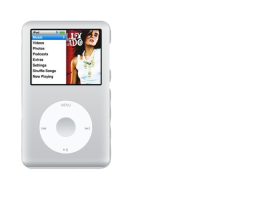
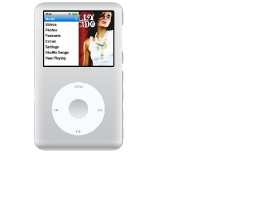
updated
added new section

Changed region(s): [[0.0599, 0.0, 0.4794, 0.87]]

diff --git a/ComputerEssentials/computersAndDevices/Hardware/hardware.html b/ComputerEssentials/computersAndDevices/Hardware/hardware.html
@@ -16,22 +16,24 @@ description: startup, shutdown, computer hahrdware devices, cpu, memory, storage
                             </h2>
                             <div class="task-item" id="ict-1-1">
                                 <div class="task-item-section">
-                                    <p class="inner-contents">
-                                        <span class="task-question">
-                                          <strong>ቀንዲ ዓይነት ኮምፕዩተራት፧</strong>
-                                        </span>
-                                    </p>
+                                    
                                     <p class="inner-contents">
                                         ሃርድወር(hardware) ማለት ኣካላዊ ኽፋላት ናይ ኮምፕዩተር ወይ ኤለክትሮኒካዊ መሳርሒ እዩ። ንኣብነት ከም እኒ 
                                         ማዉዝ（mouse）፣ ሞኒተር ከምኡውን ኪቦርድ ክግለጽ ይከኣል። እቶም ብኣእዳው  ክጭበጡ ወይ ክድህሰሱ ዝክእሉ መሳርሒ ኮምፒተር`ዮም። ክልተ ኻብቲ ኣዝዩ ህቡባት ዓይነት 
                                         ናይ ብሕቲ ኮምፕዩተር መሳርሒ ከም በዓል ዴስክቶፕን ላፕቶፕን ክግለጽ ይከኣል። ከም በዓል ታብሌት ብምትንካፍ ዝሰርሕ ውን ህቡብነት እንዳ ረኸበ
                                         እዩ ዝመጽእ ዘሎ። ኣብዚ ግዜ እዚ ሓደ ኻብቶም ኣብ ዓለም ካብ ዘሎዉ ናይ ኣይሲቲ(ICT) መሳርሒታት እቲ ኣዝዩ ህቡብ ዝዀነ ግን ሞባይል እዩ።
                                     </p>
+
+                                    <p class="inner-contents">
+                                        <span class="task-question">
+                                          <strong>ቀንዲ ዓይነት ኮምፕዩተራትን መሳርሒታትን፧</strong>
+                                        </span>
+                                    </p>
                                    
                                        <div class="content-image-section">
                                            <div class="content-only">
                                             <p class="inner-contents">
-                                                <span class ="task-question"> <strong>ዴስክቶፕ (Desktop)</strong></span> ዝበሃል ኣብ ሓደ ቦታ ንኽትጸንሕ ተባሂሉ ዝተሰርሀ ዓይነት ኮምፕዩተር እዩ። ዘይ ከም ላፕቶፕን ካልእ ዓይነት ተንቀሳቖሲ መሳርሒ፣ 
+                                                <span class ="task-question"> <strong>ዴስክቶፕ(Desktop)</strong></span> ዝበሃል ኣብ ሓደ ቦታ ንኽትጸንሕ ተባሂሉ ዝተሰርሀ ዓይነት ኮምፕዩተር እዩ። ዘይ ከም ላፕቶፕን ካልእ ዓይነት ተንቀሳቖሲ መሳርሒ፣ 
                                                 ካብ ውሽጣዊ ባትሪ ኣይጥቀሙን እዮም። ስለዚ ምስ መመንጨዊ ኤለክትሪክ እተተሓሓዘ ክኸውን ኣለዎ። ኣብ መጀመርታ ዘመን ናይ ኮምፕዩተራት፣ ናይ ብሕቲ ዴስክቶፕ(Desktop) ኮምፕዩተራት ጥራይ እየን ነይረን። 
                                                 ላፕቶፕታትን ታብለታትን ኣብ ዘይ ነበረሉ ግዜ፣ ኩሉ ኣብ ቤት ዴስክቶፕ（Desktop） ኮምፕዩተራት ጥራይ ኢዩ ዝጥቀም ነይሩ።
                                                 
@@ -46,7 +48,7 @@ description: startup, shutdown, computer hahrdware devices, cpu, memory, storage
                                         <div class="content-image-section">
                                             <div class="content-only">
                                              <p class="inner-contents">
-                                                <span class ="task-question"> <strong>ላፕቶፕ (Laptop)</strong></span> ኮምፕዩተራት ከምቲ እቲ ስም ዚእምቶ ንኣሽቱን ተንቀሳቓሲትን ዓይነት ኮምፕዩተራት እዮም። 
+                                                <span class ="task-question"> <strong>ላፕቶፕ(Laptop)</strong></span> ኮምፕዩተራት ከምቲ እቲ ስም ዚእምቶ ንኣሽቱን ተንቀሳቓሲትን ዓይነት ኮምፕዩተራት እዮም። 
                                                 ብውሽጣዊ ባትሪ ዀነ ብኤለክትሪክ እዮም ዚጥቀሙ። መብዛሕትኡ ግዜ ንተንቀሳቓሲን ተዓጻጻፍን ስርሓት ንምጥቃም ተባሂሎም እዩም ዝንደፉ።
                                                 ከምቲ ባህላዊ ዓብዪ ስክሪን VDUs(Visual Display Units) ዘይኰነስ ፍሉይ ዓይነት ስክሪን እዩም ዝጥቀሙ። ምስ ተመሳሳሊ ደስክቶ(Desktop) ኣወዳዲርካ  
                                                 ገና ኽቡር እኳ እንተ ዀነ ዋግኡ፣ ምስቲ ሓይሊ ናይ ዴስክቶፕ(Desktop) ኺወዳደሩ ይኽእሉ እዮም።
@@ -61,7 +63,7 @@ description: startup, shutdown, computer hahrdware devices, cpu, memory, storage
                                         <div class="content-image-section">
                                             <div class="content-only">
                                              <p class="inner-contents">
-                                                <span class ="task-question"> <strong>ታብሌት (Tablet)</strong></span> ተንቀሳቓሲ ኮምፕዩተር ኮይና ነቲ ናይ ኮምፕዩተር ስክሪን ብኢድካ ብምድህሳስ ወይ ብምትንካፍ እያ ትሰርሕ።
+                                                <span class ="task-question"> <strong>ታብሌት(Tablet)</strong></span> ተንቀሳቓሲ ኮምፕዩተር ኮይና ነቲ ናይ ኮምፕዩተር ስክሪን ብኢድካ ብምድህሳስ ወይ ብምትንካፍ እያ ትሰርሕ።
                                                 መብዛሕትኡ ታብሌታት ንኣሽቱን ክብደትን ድማ ብገምጋም ካብ ላፕቶፕ ዝውሕድ ኢዩ።  እቶም ናይ ቀደም ዝነበሩ ታብለት ብብርሃን ብርዒ፣ ስክሪን ብምትንካፍ ኺዓዪ ተባሂሎም እዮም ተነዲፎም። 
                                                 ብዙሓት ታብሌታት ሕጂ ብብዙሕ መንገድታት ብምትንካፍ እዮም ዝሰርሑ ንኣብነት ንሓደ ስእሊ ክተዕብዮ ወይ ክተንእሶ እንተ ደሊኻ ብብዙሕ ኣጻብዕካ ምንቅስቓስ ብምግባር ይከኣል እዩ። 
                                                 ኪቦርድ ዘይ ብሎም ታብሌት ብ ኣብቲ ስክሪን ዝርአ ፖፕ-ኣፕ ኪቦርድ ጌርካ መልእኽቲ ኽትኣቱ ይፈቕዱልካ እዩ።
@@ -73,10 +75,10 @@ description: startup, shutdown, computer hahrdware devices, cpu, memory, storage
                                             </div>
                                         </div>
 
-                                        <div class="content-image-section">
-                                            <div class="content-only goals-section">
+                                        <div class="content-image-section-large-grid">
+                                            <div class="content-only goals-section large-grid">
                                              <p class="inner-contents">
-                                                <span class ="task-question"> <strong>ስማርትፎን (Smartphone)</strong></span> ዝብሃል ምዕቡል ዝኾነ ልክዕ ከም ናይ ኮምፕዩተር ዝህቦ ኣገልግሎት ዚህብ ሞባይል ተሌፎን እዩ።
+                                                <span class ="task-question"> <strong>ስማርትፎን(Smartphone)</strong></span> ዝብሃል ምዕቡል ዝኾነ ልክዕ ከም ናይ ኮምፕዩተር ዝህቦ ኣገልግሎት ዚህብ ሞባይል ተሌፎን እዩ።
                                                 ክእለትን መለክዒታትን ካብ ሓደ ኣፍራዪ ትካል ናብ ካልእ ኣፍራዪ ትካል ይፈላለ ኢዩ። መብዛሕትኦም ስማርትፎን ከምዚ ዝስዕብ ኣለዎም፣
                                                 <ul class="course-outcomes-inner-section">
                                                     <li>ምስ ካልእ መሳርሒታት ዜራኽብ ኣሰራርሓ（Operating system） ክምኡዉን ኣወዓዕላታት(ኣፕሊኬሽን) መውረዲ።</li>
@@ -89,6 +91,30 @@ description: startup, shutdown, computer hahrdware devices, cpu, memory, storage
                                             </div>
                                             <div class="image-only">
                                                 <img src="/assets/Images/Chapter 3/Hardware/smartPhone.png"/>
+                                            </div>
+                                        </div>
+                                        <div class="content-image-section-medium-grid">
+                                            <div class="content-only">
+                                            <p class="inner-contents">
+                                                <span class ="task-question"> <strong>ዲጂታል ካሜራ(Digital Camera)</strong></span>  ኤለክትሮኒካዊት ካሜራ ኾይና ብተመሳሳሊ መገዲ ከም ባህላዊ ካሜራ ኽንጥቀመላ ንኽእል እያ። ግናኸ ስእልታት ኣብ ጥቕላላት ፊልም ኣብ ክንዲ ዚኽዝን
+                                                እቲ ስእልታት ብኤለክትሮኒካዊ መገዲ ኣብ ሜሞርይ(Memory) እዩ ዚኽዘን። እዚ ስእልታት እዚ ብቐሊሉ ናብ ኮምፕዩተርካ ኺመሓላለፍ ይኽእል እዩ 
+                                               ድሕሪኡ በቲ ኣብ ኮምፕዩተርካ ዘሎካ ናይ ስእሊ ፕሮግራም ክመዓራረ ይከኣል እዩ። 
+                                            </p> 
+                                            </div>
+                                            <div class="image-only">
+                                                <img src="/assets/Images/Chapter 3/Hardware/digitalCamera2.png"/>
+                                            </div>
+                                        </div>
+
+                                        <div class="content-image-section">
+                                            <div class="content-only">
+                                            <p class="inner-contents">
+                                                <span class ="task-question"> <strong>ሜድያ ፕለየርስ(Media Players)</strong></span> ኤለክትሮኒካዊ ሙዚቃን ቪድዮን ክትክዝን ይፈቕዱልካ።  
+                                                ከም ጕሉሕ ኣብነት ኣይፖድ(IPod) ብ ኣፕል(Apple) ዝተሰርሐ ክግለጽ ይከኣል። ኣብዚ መሳርሒታት እዚ ብኣሽሓት ዚቝጸር ሙዚቃን ቪድዮን ኪኽዘን ይከኣል እዩ።
+                                            </p> 
+                                            </div>
+                                            <div class="image-only">
+                                                <img src="/assets/Images/Chapter 3/Hardware/mediaPlayer2.png"/>
                                             </div>
                                         </div>
                                    

diff --git a/_site/ComputerEssentials/computersAndDevices/Hardware/hardware.html b/_site/ComputerEssentials/computersAndDevices/Hardware/hardware.html
@@ -213,22 +213,24 @@ return initialValue;
                             </h2>
                             <div class="task-item" id="ict-1-1">
                                 <div class="task-item-section">
-                                    <p class="inner-contents">
-                                        <span class="task-question">
-                                          <strong>ቀንዲ ዓይነት ኮምፕዩተራት፧</strong>
-                                        </span>
-                                    </p>
+                                    
                                     <p class="inner-contents">
                                         ሃርድወር(hardware) ማለት ኣካላዊ ኽፋላት ናይ ኮምፕዩተር ወይ ኤለክትሮኒካዊ መሳርሒ እዩ። ንኣብነት ከም እኒ 
                                         ማዉዝ（mouse）፣ ሞኒተር ከምኡውን ኪቦርድ ክግለጽ ይከኣል። እቶም ብኣእዳው  ክጭበጡ ወይ ክድህሰሱ ዝክእሉ መሳርሒ ኮምፒተር`ዮም። ክልተ ኻብቲ ኣዝዩ ህቡባት ዓይነት 
                                         ናይ ብሕቲ ኮምፕዩተር መሳርሒ ከም በዓል ዴስክቶፕን ላፕቶፕን ክግለጽ ይከኣል። ከም በዓል ታብሌት ብምትንካፍ ዝሰርሕ ውን ህቡብነት እንዳ ረኸበ
                                         እዩ ዝመጽእ ዘሎ። ኣብዚ ግዜ እዚ ሓደ ኻብቶም ኣብ ዓለም ካብ ዘሎዉ ናይ ኣይሲቲ(ICT) መሳርሒታት እቲ ኣዝዩ ህቡብ ዝዀነ ግን ሞባይል እዩ።
                                     </p>
+
+                                    <p class="inner-contents">
+                                        <span class="task-question">
+                                          <strong>ቀንዲ ዓይነት ኮምፕዩተራትን መሳርሒታትን፧</strong>
+                                        </span>
+                                    </p>
                                    
                                        <div class="content-image-section">
                                            <div class="content-only">
                                             <p class="inner-contents">
-                                                <span class ="task-question"> <strong>ዴስክቶፕ (Desktop)</strong></span> ዝበሃል ኣብ ሓደ ቦታ ንኽትጸንሕ ተባሂሉ ዝተሰርሀ ዓይነት ኮምፕዩተር እዩ። ዘይ ከም ላፕቶፕን ካልእ ዓይነት ተንቀሳቖሲ መሳርሒ፣ 
+                                                <span class ="task-question"> <strong>ዴስክቶፕ(Desktop)</strong></span> ዝበሃል ኣብ ሓደ ቦታ ንኽትጸንሕ ተባሂሉ ዝተሰርሀ ዓይነት ኮምፕዩተር እዩ። ዘይ ከም ላፕቶፕን ካልእ ዓይነት ተንቀሳቖሲ መሳርሒ፣ 
                                                 ካብ ውሽጣዊ ባትሪ ኣይጥቀሙን እዮም። ስለዚ ምስ መመንጨዊ ኤለክትሪክ እተተሓሓዘ ክኸውን ኣለዎ። ኣብ መጀመርታ ዘመን ናይ ኮምፕዩተራት፣ ናይ ብሕቲ ዴስክቶፕ(Desktop) ኮምፕዩተራት ጥራይ እየን ነይረን። 
                                                 ላፕቶፕታትን ታብለታትን ኣብ ዘይ ነበረሉ ግዜ፣ ኩሉ ኣብ ቤት ዴስክቶፕ（Desktop） ኮምፕዩተራት ጥራይ ኢዩ ዝጥቀም ነይሩ።
                                                 
@@ -243,7 +245,7 @@ return initialValue;
                                         <div class="content-image-section">
                                             <div class="content-only">
                                              <p class="inner-contents">
-                                                <span class ="task-question"> <strong>ላፕቶፕ (Laptop)</strong></span> ኮምፕዩተራት ከምቲ እቲ ስም ዚእምቶ ንኣሽቱን ተንቀሳቓሲትን ዓይነት ኮምፕዩተራት እዮም። 
+                                                <span class ="task-question"> <strong>ላፕቶፕ(Laptop)</strong></span> ኮምፕዩተራት ከምቲ እቲ ስም ዚእምቶ ንኣሽቱን ተንቀሳቓሲትን ዓይነት ኮምፕዩተራት እዮም። 
                                                 ብውሽጣዊ ባትሪ ዀነ ብኤለክትሪክ እዮም ዚጥቀሙ። መብዛሕትኡ ግዜ ንተንቀሳቓሲን ተዓጻጻፍን ስርሓት ንምጥቃም ተባሂሎም እዩም ዝንደፉ።
                                                 ከምቲ ባህላዊ ዓብዪ ስክሪን VDUs(Visual Display Units) ዘይኰነስ ፍሉይ ዓይነት ስክሪን እዩም ዝጥቀሙ። ምስ ተመሳሳሊ ደስክቶ(Desktop) ኣወዳዲርካ  
                                                 ገና ኽቡር እኳ እንተ ዀነ ዋግኡ፣ ምስቲ ሓይሊ ናይ ዴስክቶፕ(Desktop) ኺወዳደሩ ይኽእሉ እዮም።
@@ -258,7 +260,7 @@ return initialValue;
                                         <div class="content-image-section">
                                             <div class="content-only">
                                              <p class="inner-contents">
-                                                <span class ="task-question"> <strong>ታብሌት (Tablet)</strong></span> ተንቀሳቓሲ ኮምፕዩተር ኮይና ነቲ ናይ ኮምፕዩተር ስክሪን ብኢድካ ብምድህሳስ ወይ ብምትንካፍ እያ ትሰርሕ።
+                                                <span class ="task-question"> <strong>ታብሌት(Tablet)</strong></span> ተንቀሳቓሲ ኮምፕዩተር ኮይና ነቲ ናይ ኮምፕዩተር ስክሪን ብኢድካ ብምድህሳስ ወይ ብምትንካፍ እያ ትሰርሕ።
                                                 መብዛሕትኡ ታብሌታት ንኣሽቱን ክብደትን ድማ ብገምጋም ካብ ላፕቶፕ ዝውሕድ ኢዩ።  እቶም ናይ ቀደም ዝነበሩ ታብለት ብብርሃን ብርዒ፣ ስክሪን ብምትንካፍ ኺዓዪ ተባሂሎም እዮም ተነዲፎም። 
                                                 ብዙሓት ታብሌታት ሕጂ ብብዙሕ መንገድታት ብምትንካፍ እዮም ዝሰርሑ ንኣብነት ንሓደ ስእሊ ክተዕብዮ ወይ ክተንእሶ እንተ ደሊኻ ብብዙሕ ኣጻብዕካ ምንቅስቓስ ብምግባር ይከኣል እዩ። 
                                                 ኪቦርድ ዘይ ብሎም ታብሌት ብ ኣብቲ ስክሪን ዝርአ ፖፕ-ኣፕ ኪቦርድ ጌርካ መልእኽቲ ኽትኣቱ ይፈቕዱልካ እዩ።
@@ -270,10 +272,10 @@ return initialValue;
                                             </div>
                                         </div>
 
-                                        <div class="content-image-section">
-                                            <div class="content-only goals-section">
+                                        <div class="content-image-section-large-grid">
+                                            <div class="content-only goals-section large-grid">
                                              <p class="inner-contents">
-                                                <span class ="task-question"> <strong>ስማርትፎን (Smartphone)</strong></span> ዝብሃል ምዕቡል ዝኾነ ልክዕ ከም ናይ ኮምፕዩተር ዝህቦ ኣገልግሎት ዚህብ ሞባይል ተሌፎን እዩ።
+                                                <span class ="task-question"> <strong>ስማርትፎን(Smartphone)</strong></span> ዝብሃል ምዕቡል ዝኾነ ልክዕ ከም ናይ ኮምፕዩተር ዝህቦ ኣገልግሎት ዚህብ ሞባይል ተሌፎን እዩ።
                                                 ክእለትን መለክዒታትን ካብ ሓደ ኣፍራዪ ትካል ናብ ካልእ ኣፍራዪ ትካል ይፈላለ ኢዩ። መብዛሕትኦም ስማርትፎን ከምዚ ዝስዕብ ኣለዎም፣
                                                 <ul class="course-outcomes-inner-section">
                                                     <li>ምስ ካልእ መሳርሒታት ዜራኽብ ኣሰራርሓ（Operating system） ክምኡዉን ኣወዓዕላታት(ኣፕሊኬሽን) መውረዲ።</li>
@@ -286,6 +288,30 @@ return initialValue;
                                             </div>
                                             <div class="image-only">
                                                 <img src="/assets/Images/Chapter 3/Hardware/smartPhone.png"/>
+                                            </div>
+                                        </div>
+                                        <div class="content-image-section-medium-grid">
+                                            <div class="content-only">
+                                            <p class="inner-contents">
+                                                <span class ="task-question"> <strong>ዲጂታል ካሜራ(Digital Camera)</strong></span>  ኤለክትሮኒካዊት ካሜራ ኾይና ብተመሳሳሊ መገዲ ከም ባህላዊ ካሜራ ኽንጥቀመላ ንኽእል እያ። ግናኸ ስእልታት ኣብ ጥቕላላት ፊልም ኣብ ክንዲ ዚኽዝን
+                                                እቲ ስእልታት ብኤለክትሮኒካዊ መገዲ ኣብ ሜሞርይ(Memory) እዩ ዚኽዘን። እዚ ስእልታት እዚ ብቐሊሉ ናብ ኮምፕዩተርካ ኺመሓላለፍ ይኽእል እዩ 
+                                               ድሕሪኡ በቲ ኣብ ኮምፕዩተርካ ዘሎካ ናይ ስእሊ ፕሮግራም ክመዓራረ ይከኣል እዩ። 
+                                            </p> 
+                                            </div>
+                                            <div class="image-only">
+                                                <img src="/assets/Images/Chapter 3/Hardware/digitalCamera2.png"/>
+                                            </div>
+                                        </div>
+
+                                        <div class="content-image-section">
+                                            <div class="content-only">
+                                            <p class="inner-contents">
+                                                <span class ="task-question"> <strong>ሜድያ ፕለየርስ(Media Players)</strong></span> ኤለክትሮኒካዊ ሙዚቃን ቪድዮን ክትክዝን ይፈቕዱልካ።  
+                                                ከም ጕሉሕ ኣብነት ኣይፖድ(IPod) ብ ኣፕል(Apple) ዝተሰርሐ ክግለጽ ይከኣል። ኣብዚ መሳርሒታት እዚ ብኣሽሓት ዚቝጸር ሙዚቃን ቪድዮን ኪኽዘን ይከኣል እዩ።
+                                            </p> 
+                                            </div>
+                                            <div class="image-only">
+                                                <img src="/assets/Images/Chapter 3/Hardware/mediaPlayer2.png"/>
                                             </div>
                                         </div>
                                    

diff --git a/ComputerEssentials/computersAndDevices/Hardware/hardware1.html b/ComputerEssentials/computersAndDevices/Hardware/hardware1.html
@@ -11,18 +11,40 @@ description: startup, shutdown, computer hahrdware devices, cpu, memory, storage
                     <div class="course-inner-section category" id="computers-devices">
                         <div class="skill" id="ict">
                             <div class="task-item" id="ict-1-1">
-                                <div class="task-item-section">
-                                       <div class="content-image-section">
+                                   <div class="task-item-section">
+                                    <p class="inner-contents">
+                                        <span class="task-question">
+                                          <strong>መስርሕ(Processor)፣ ራም(RAM) ክምኡዉን መኽዘን(Storage)፧</strong>
+                                        </span>
+                                    </p>
+                                    <div class="content-image-section">
                                         <div class="content-only">
                                          <p class="inner-contents">
-                                             <span class ="task-question"> <strong>ሜድያ ፕለየርስ (Media Players)</strong></span> ኤለክትሮኒካዊ ሙዚቃን ቪድዮን ክትክዝን ይፈቕዱልካ።  
-                                             ከም ጕሉሕ ኣብነት ኣይፖድ(IPod) ብ ኣፕል(Apple) ዝተሰርሐ ክግለጽ ይከኣል። ኣብዚ መሳርሒታት እዚ ብኣሽሓት ዚቝጸር ሙዚቃን ቪድዮን ኪኽዘን ይከኣል እዩ።
+                                             <span class ="task-question"> <strong>ፕሮሰሰር(Processor)</strong></span> 
+                                             ዝበሃል ኣገዳሲ ኽፋል ኮምፕዩተራትን ካልእ ኤለክትሮኒካዊ መሳርሒታትን እዩ። 
+                                             ኣብ ኮምፕዩተር እቲ ቀንዲ ግደ ናይ ፕሮሰሰር(Processor) ሓበሬታ ምቕባል፣ ግቡእ ውጽኢት ድማ ምሃብ እዩ። ዘመናውያን ፕሮሰሰራት ኣብ ውሽጢ ሓደ ካልኢት ብትሪልዮናት ዚቝጸር ነገራት ኪፍጽሙ ይኽእሉ እዮም። 
+                                             እቲ ቀንዲ ፕሮሰሰር(Processor) ናይ ኮምፕዩተር ሲፒዩ(CPU) ይበሃል። ሲፒዩ(CPU) ንዅሉ መሰረታዊ ናይቲ ስርዓት(System) መምርሒታት ይቈጻጸሮ ንኣብነት ከም ብዓል
+                                             ካብ ኪቦርድ እተረኽበ ውጽኢት ምዕያይ። 
                                          </p> 
                                         </div>
                                         <div class="image-only">
-                                            <img src="/assets/Images/Chapter 3/Hardware/mediaPlayers.png"/>
+                                            <img src="/assets/Images/Chapter 3/Hardware/processor.png"/>
                                         </div>
                                     </div>
+                                    <div class="content-image-section">
+                                        <div class="content-only">
+                                         <p class="inner-contents">
+                                             <span class ="task-question"> <strong>ራም(RandoM Access Memory)</strong></span> 
+                                             ዝበሃል ክፋል ናይ ኮምፕዩተር ንሶፍትዌር ከምኡውን ኣብቲ እዋን እቲ ዚጥቀመሉ ወይ ዚዓዪ ዘሎ ሓበሬታ ዚሕዘሉ/ዝኽዝነሉ ቦታ እዩ።
+                                             ራም(RAM) ንግዝያዊ መስርሕ መኸዘኒ ቦታ እዩ። ነቲ ኮምፕዩተር ምስ ኣጥፍእናዮ እቲ ኣብዚ ራም ዝነበረ ሓበሬታ ኩሉ ይጠፍእ።
+                                             ዘመናዊ ኮምፕዩተራት መብዛሕትኡ ግዜ 8 ወይ 16 GB ራም(RAM) ይጥቀሙ።
+                                         </p> 
+                                        </div>
+                                        <div class="image-only">
+                                            <img src="/assets/Images/Chapter 3/Hardware/ram.png"/>
+                                        </div>
+                                    </div>
+                                       
                                    
                                     </div>
                                 </div>

diff --git a/_site/ComputerEssentials/computersAndDevices/Hardware/hardware1.html b/_site/ComputerEssentials/computersAndDevices/Hardware/hardware1.html
@@ -208,18 +208,40 @@ return initialValue;
                     <div class="course-inner-section category" id="computers-devices">
                         <div class="skill" id="ict">
                             <div class="task-item" id="ict-1-1">
-                                <div class="task-item-section">
-                                       <div class="content-image-section">
+                                   <div class="task-item-section">
+                                    <p class="inner-contents">
+                                        <span class="task-question">
+                                          <strong>መስርሕ(Processor)፣ ራም(RAM) ክምኡዉን መኽዘን(Storage)፧</strong>
+                                        </span>
+                                    </p>
+                                    <div class="content-image-section">
                                         <div class="content-only">
                                          <p class="inner-contents">
-                                             <span class ="task-question"> <strong>ሜድያ ፕለየርስ (Media Players)</strong></span> ኤለክትሮኒካዊ ሙዚቃን ቪድዮን ክትክዝን ይፈቕዱልካ።  
-                                             ከም ጕሉሕ ኣብነት ኣይፖድ(IPod) ብ ኣፕል(Apple) ዝተሰርሐ ክግለጽ ይከኣል። ኣብዚ መሳርሒታት እዚ ብኣሽሓት ዚቝጸር ሙዚቃን ቪድዮን ኪኽዘን ይከኣል እዩ።
+                                             <span class ="task-question"> <strong>ፕሮሰሰር(Processor)</strong></span> 
+                                             ዝበሃል ኣገዳሲ ኽፋል ኮምፕዩተራትን ካልእ ኤለክትሮኒካዊ መሳርሒታትን እዩ። 
+                                             ኣብ ኮምፕዩተር እቲ ቀንዲ ግደ ናይ ፕሮሰሰር(Processor) ሓበሬታ ምቕባል፣ ግቡእ ውጽኢት ድማ ምሃብ እዩ። ዘመናውያን ፕሮሰሰራት ኣብ ውሽጢ ሓደ ካልኢት ብትሪልዮናት ዚቝጸር ነገራት ኪፍጽሙ ይኽእሉ እዮም። 
+                                             እቲ ቀንዲ ፕሮሰሰር(Processor) ናይ ኮምፕዩተር ሲፒዩ(CPU) ይበሃል። ሲፒዩ(CPU) ንዅሉ መሰረታዊ ናይቲ ስርዓት(System) መምርሒታት ይቈጻጸሮ ንኣብነት ከም ብዓል
+                                             ካብ ኪቦርድ እተረኽበ ውጽኢት ምዕያይ። 
                                          </p> 
                                         </div>
                                         <div class="image-only">
-                                            <img src="/assets/Images/Chapter 3/Hardware/mediaPlayers.png"/>
+                                            <img src="/assets/Images/Chapter 3/Hardware/processor.png"/>
                                         </div>
                                     </div>
+                                    <div class="content-image-section">
+                                        <div class="content-only">
+                                         <p class="inner-contents">
+                                             <span class ="task-question"> <strong>ራም(RandoM Access Memory)</strong></span> 
+                                             ዝበሃል ክፋል ናይ ኮምፕዩተር ንሶፍትዌር ከምኡውን ኣብቲ እዋን እቲ ዚጥቀመሉ ወይ ዚዓዪ ዘሎ ሓበሬታ ዚሕዘሉ/ዝኽዝነሉ ቦታ እዩ።
+                                             ራም(RAM) ንግዝያዊ መስርሕ መኸዘኒ ቦታ እዩ። ነቲ ኮምፕዩተር ምስ ኣጥፍእናዮ እቲ ኣብዚ ራም ዝነበረ ሓበሬታ ኩሉ ይጠፍእ።
+                                             ዘመናዊ ኮምፕዩተራት መብዛሕትኡ ግዜ 8 ወይ 16 GB ራም(RAM) ይጥቀሙ።
+                                         </p> 
+                                        </div>
+                                        <div class="image-only">
+                                            <img src="/assets/Images/Chapter 3/Hardware/ram.png"/>
+                                        </div>
+                                    </div>
+                                       
                                    
                                     </div>
                                 </div>

diff --git a/_site/css/main.css b/_site/css/main.css
@@ -390,11 +390,17 @@ ol.rs-carousel-pagination { position: absolute; z-index: 998; top: 82%; left: 50
 
 .main-section .task-item .task-item-section strong { font-weight: 700; }
 
-.main-section .task-item .task-item-section .content-image-section { display: grid; grid-template-rows: 200px; grid-template-columns: 60% 40%; }
+.main-section .task-item .task-item-section .content-image-section, .main-section .task-item .task-item-section .content-image-section-large-grid, .main-section .task-item .task-item-section .content-image-section-medium-grid { display: grid; grid-template-rows: 200px; grid-template-columns: 60% 40%; }
 
-@media screen and (max-width: 700px) { .main-section .task-item .task-item-section .content-image-section { display: flex; flex-direction: column; } }
+@media screen and (max-width: 700px) { .main-section .task-item .task-item-section .content-image-section, .main-section .task-item .task-item-section .content-image-section-large-grid, .main-section .task-item .task-item-section .content-image-section-medium-grid { display: flex; flex-direction: column; } }
 
-.main-section .task-item .task-item-section .content-image-section .content-only { margin-right: 30px; }
+.main-section .task-item .task-item-section .content-image-section .content-only, .main-section .task-item .task-item-section .content-image-section-large-grid .content-only, .main-section .task-item .task-item-section .content-image-section-medium-grid .content-only { margin-right: 30px; }
+
+.main-section .task-item .task-item-section .content-image-section-large-grid { grid-template-rows: 350px; }
+
+.main-section .task-item .task-item-section .content-image-section-medium-grid { grid-template-rows: 160px; }
+
+.main-section .task-item .task-item-section .content-image-section { grid-template-rows: 200px; }
 
 .goals-section .course-outcomes-inner-section { margin-left: 35px; }
 

diff --git a/_sass/site.scss b/_sass/site.scss
@@ -272,7 +272,7 @@ div.ui-datepicker{
       strong{
         font-weight: 700;
       }
-      .content-image-section{
+      .content-image-section, .content-image-section-large-grid, .content-image-section-medium-grid {
         display:grid;
         grid-template-rows: 200px;
         grid-template-columns: 60% 40%;
@@ -284,6 +284,16 @@ div.ui-datepicker{
           margin-right:30px;
         }
       }
+      .content-image-section-large-grid{
+        grid-template-rows: 350px;
+      }
+      .content-image-section-medium-grid{
+        grid-template-rows: 160px;
+      }
+      .content-image-section{
+        grid-template-rows: 200px;
+      }
+      
     }
     
 
